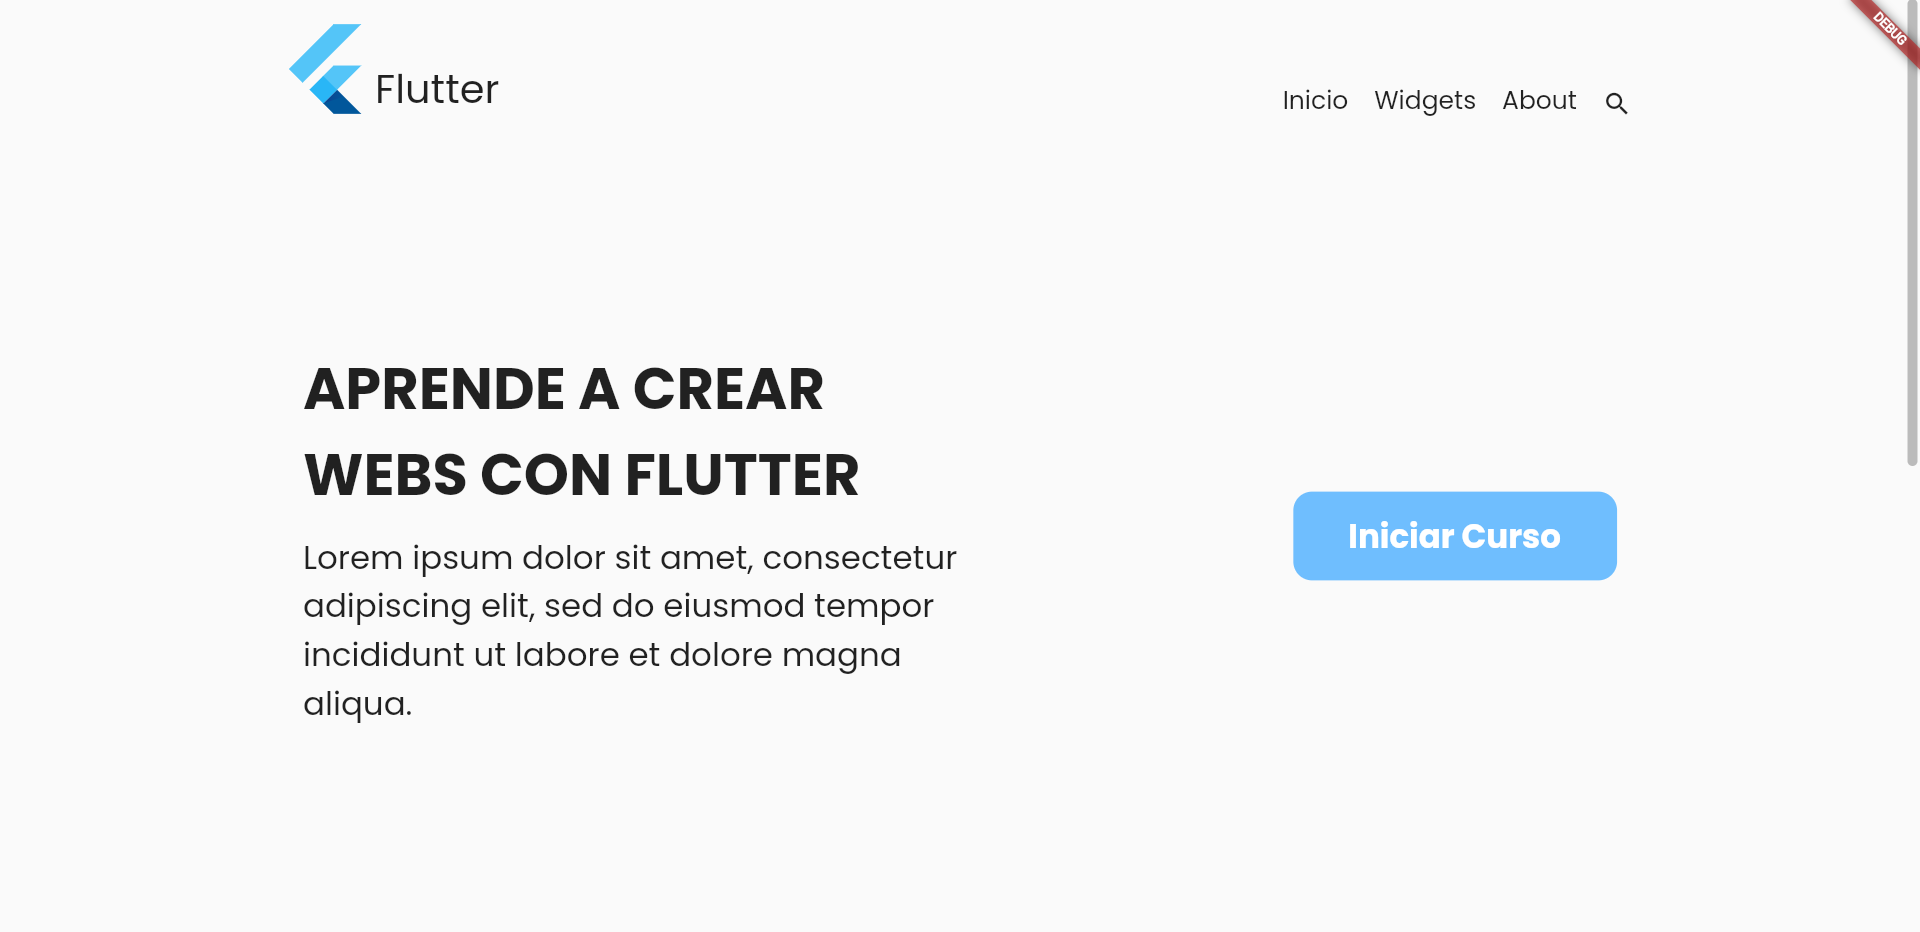
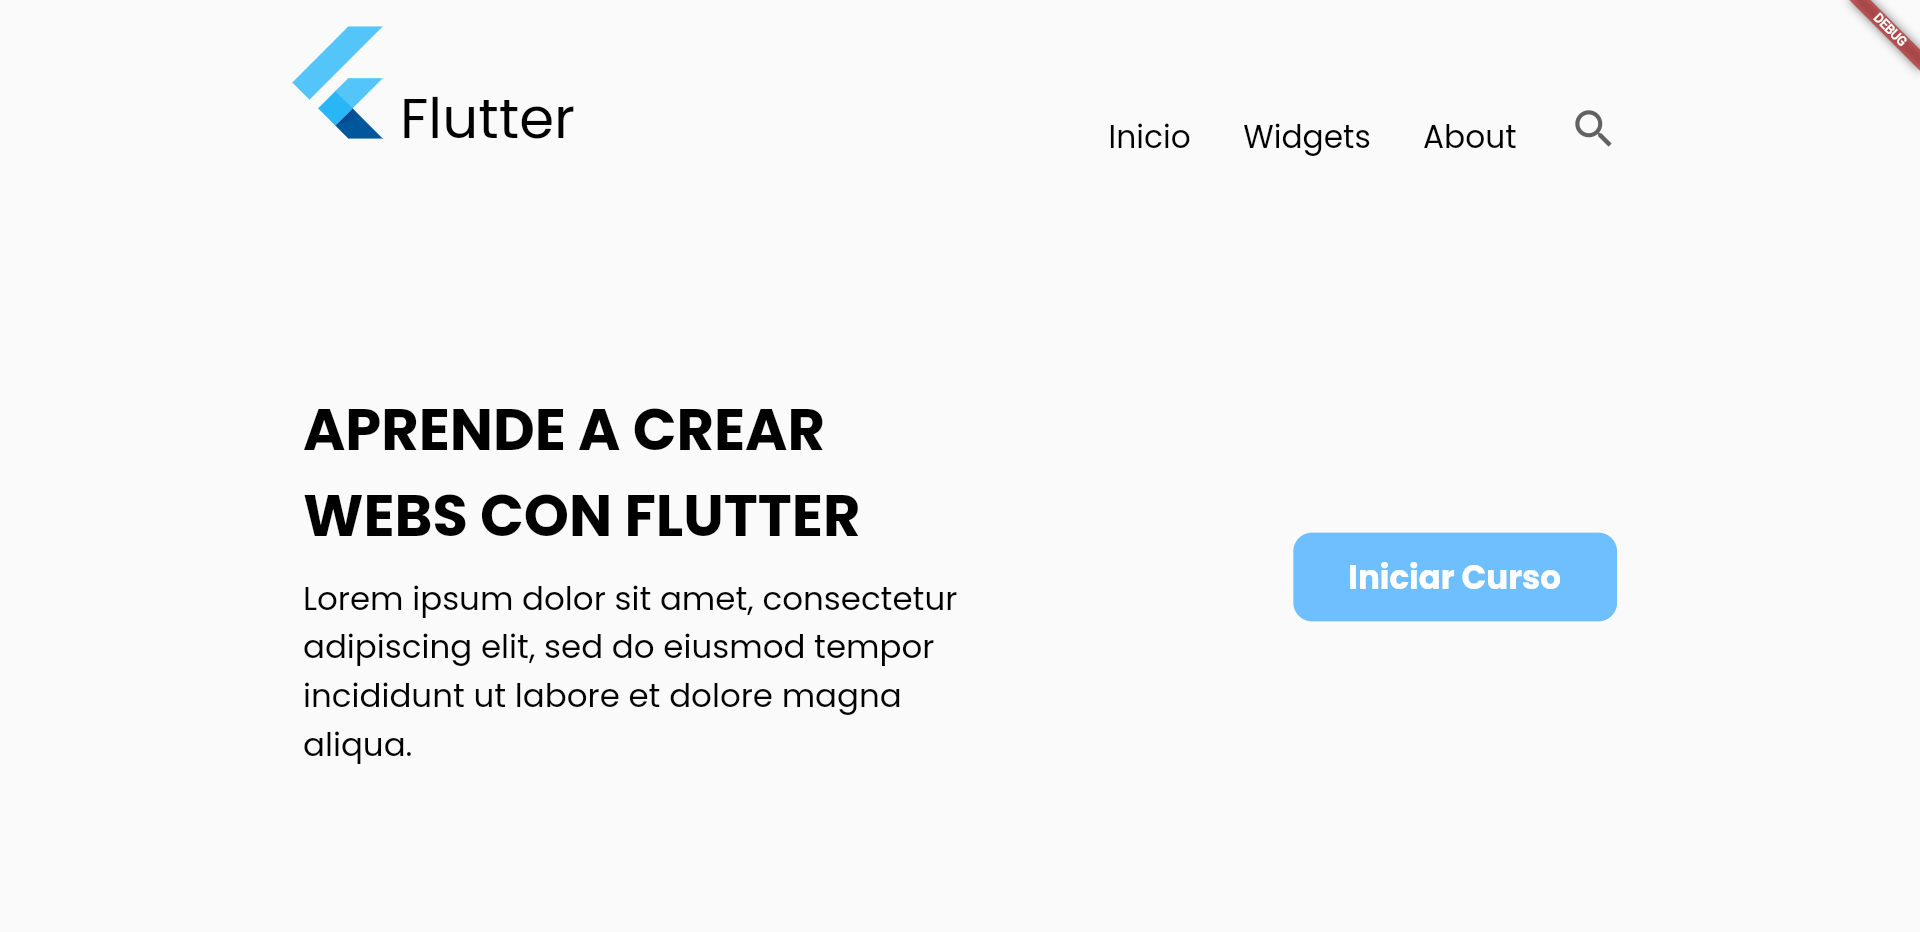
feature para actualizar cambios de estilo y las imagenes del readme

diff --git a/lib/widgets/contador.dart b/lib/widgets/contador.dart
@@ -43,13 +43,16 @@ class Contador extends StatelessWidget {
                         ),
                       ),
                     ),
-                    child: Text(
-                      "-1",
-                      textAlign: TextAlign.start,
-                      style: TextStyle(
-                          fontSize: 40,
-                          fontWeight: FontWeight.w100,
-                          color: Colors.white),
+                    child: Padding(
+                      padding: const EdgeInsets.all(5.0),
+                      child: Text(
+                        "-1",
+                        textAlign: TextAlign.start,
+                        style: GoogleFonts.roboto(
+                          textStyle:
+                              TextStyle(fontSize: 45, color: Colors.white),
+                        ),
+                      ),
                     ),
                   ),
                   ElevatedButton(
@@ -65,7 +68,10 @@ class Contador extends StatelessWidget {
                         ),
                       ),
                     ),
-                    child: Icon(Icons.refresh),
+                    child: Icon(
+                      size: 40,
+                      Icons.refresh,
+                    ),
                   ),
                   ElevatedButton(
                     onPressed: () {},
@@ -80,13 +86,16 @@ class Contador extends StatelessWidget {
                         ),
                       ),
                     ),
-                    child: Text(
-                      "+1",
-                      textAlign: TextAlign.start,
-                      style: TextStyle(
-                          fontSize: 40,
-                          fontWeight: FontWeight.w100,
-                          color: Colors.white),
+                    child: Padding(
+                      padding: const EdgeInsets.all(5.0),
+                      child: Text(
+                        "+1",
+                        textAlign: TextAlign.start,
+                        style: GoogleFonts.roboto(
+                          textStyle:
+                              TextStyle(fontSize: 45, color: Colors.white),
+                        ),
+                      ),
                     ),
                   ),
                 ],

diff --git a/lib/widgets/nav.dart b/lib/widgets/nav.dart
@@ -20,35 +20,45 @@ class Nav extends StatelessWidget {
             crossAxisAlignment: CrossAxisAlignment.end,
             mainAxisAlignment: MainAxisAlignment.end,
             children: [
-              FlutterLogo(
-                size: 80,
-                style: FlutterLogoStyle.markOnly,
+              Padding(
+                padding: EdgeInsets.only(bottom: 12.0),
+                child: FlutterLogo(
+                  size: 100,
+                  style: FlutterLogoStyle.markOnly,
+                ),
               ),
               Text(
                 "Flutter",
-                style: TextStyle(fontSize: 32),
+                style: TextStyle(fontSize: 45, color: Colors.black),
               ),
             ],
           ),
           Container(
-            width: 300,
+            width: 450,
             child: const Row(
               mainAxisAlignment: MainAxisAlignment.spaceAround,
               crossAxisAlignment: CrossAxisAlignment.end,
               children: [
                 Text(
                   "Inicio",
-                  style: TextStyle(fontSize: 20),
+                  style: TextStyle(fontSize: 25, color: Colors.black),
                 ),
                 Text(
                   "Widgets",
-                  style: TextStyle(fontSize: 20),
+                  style: TextStyle(fontSize: 25, color: Colors.black),
                 ),
                 Text(
                   "About",
-                  style: TextStyle(fontSize: 20),
+                  style: TextStyle(fontSize: 25, color: Colors.black),
                 ),
-                Icon(Icons.search),
+                Padding(
+                  padding: EdgeInsets.only(bottom: 5.0),
+                  child: Icon(
+                    Icons.search,
+                    size: 40,
+                    color: Color.fromARGB(255, 98, 98, 98),
+                  ),
+                ),
               ],
             ),
           ),

diff --git a/lib/widgets/componentes.dart b/lib/widgets/componentes.dart
@@ -20,6 +20,7 @@ class Componente1 extends StatelessWidget {
                 textStyle: TextStyle(
                   fontWeight: FontWeight.bold,
                   fontSize: 46,
+                  color: Colors.black,
                 ),
               ),
             ),
@@ -27,7 +28,7 @@ class Componente1 extends StatelessWidget {
           Text(
             "Lorem ipsum dolor sit amet, consectetur adipiscing elit, sed do eiusmod tempor incididunt ut labore et dolore magna aliqua. ",
             textAlign: TextAlign.start,
-            style: TextStyle(fontSize: 26),
+            style: TextStyle(fontSize: 26, color: Colors.black),
           )
         ],
       ),
